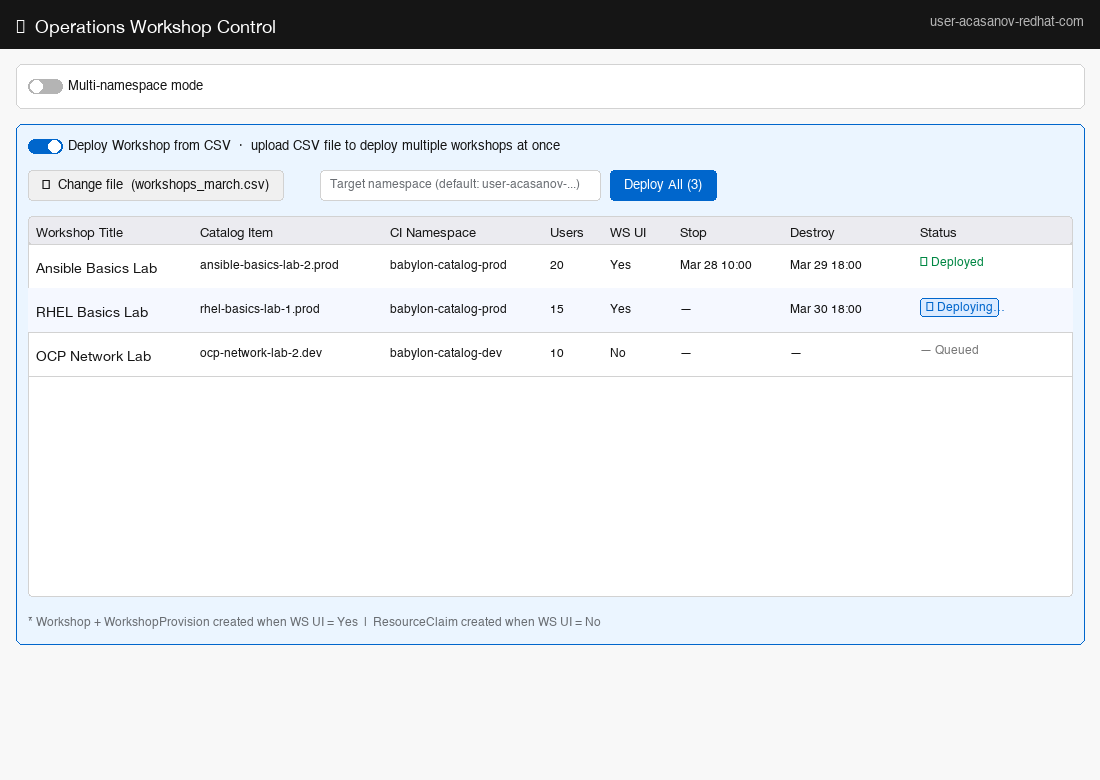
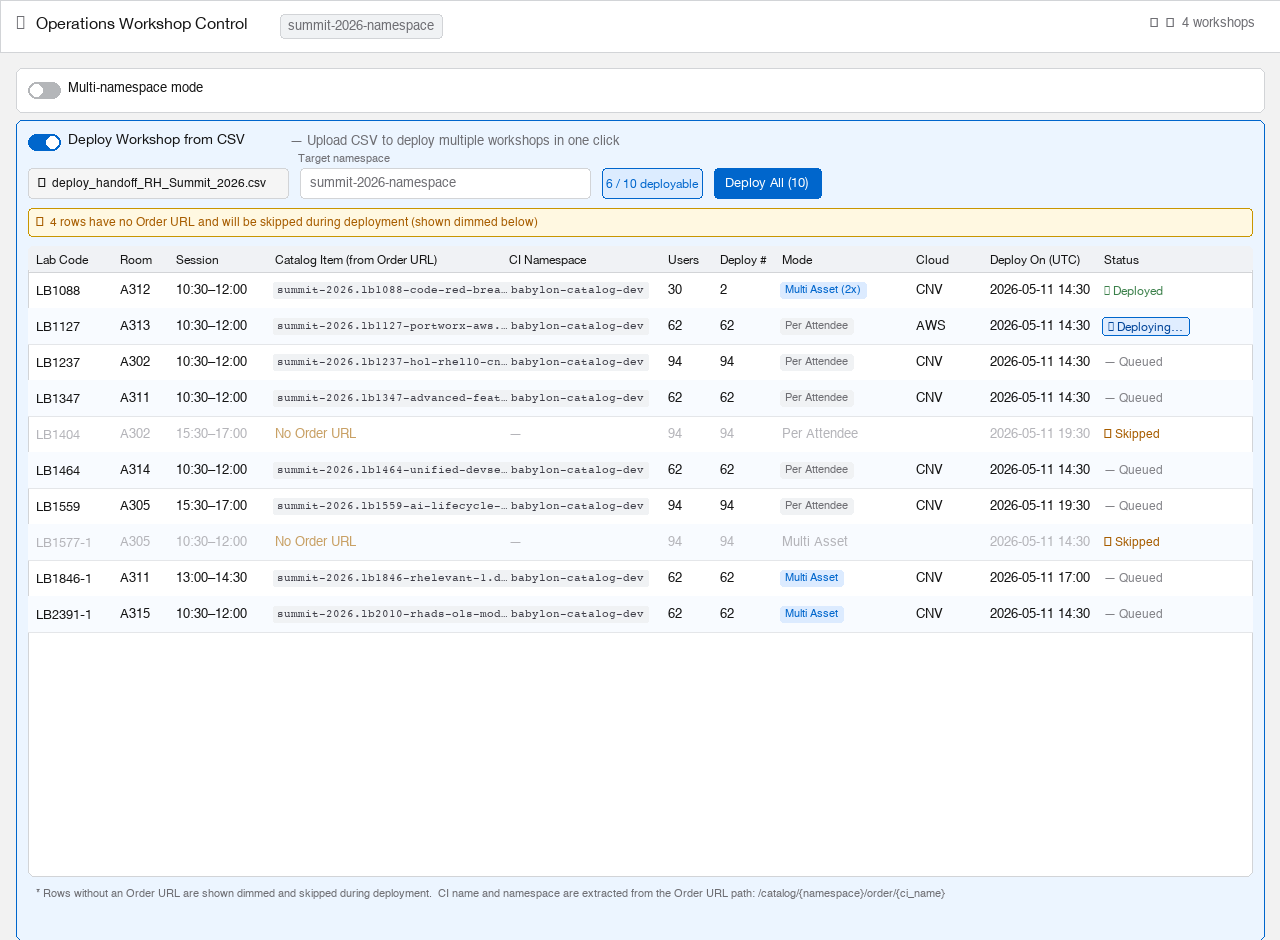
feat(ops): update CSV parser + screenshot to match real Summit CSV format
- Parse Summit-style CSV: Lab Code, Room, Session Time, Deploy On (UTC),
  Order URL, Users, Deploy Count, Mode, Cloud, Region, Instances
- Extract CI name and namespace automatically from Order URL path
  (/catalog/{namespace}/order/{ci_name})
- Preview table now shows: Lab Code, Room, Session, Catalog Item,
  CI Namespace, Users, Deploy #, Mode, Cloud, Deploy On (UTC), Status
- Rows without an Order URL are shown dimmed with a warning tooltip
  and skipped during deploy
- Updated design screenshot uses real Red Hat Summit 2026 data

Made-with: Cursor

diff --git a/catalog/ui/src/app/Admin/Ops.tsx b/catalog/ui/src/app/Admin/Ops.tsx
@@ -211,19 +211,20 @@ function wsDetailPath(ws: Workshop): string {
 // ---------- Deploy Workshop from CSV – types & helpers ----------
 
 interface CsvScheduleRow {
+  labCode: string;
+  room: string;
+  sessionTime: string;
   ciName: string;
   ciNamespace: string;
-  workshopTitle: string;
-  targetNamespace: string;
+  orderUrl: string;
   userCount: number;
-  enableWorkshopInterface: boolean;
-  startTime?: string;
-  stopTime?: string;
-  destroyTime?: string;
-  description?: string;
-  salesforceId?: string;
-  stage?: string;
-  multiuser?: boolean;
+  deployCount: number;
+  mode: string;
+  cloud: string;
+  region: string;
+  instances: string;
+  deployOn?: string;
+  hasOrderUrl: boolean;
   raw: Record<string, string>;
 }
 
@@ -252,58 +253,74 @@ function parseCsvLine(line: string): string[] {
   return result;
 }
 
-function parseCsvBool(v: string): boolean {
-  return /^(true|yes|1)$/i.test(v.trim());
-}
-
 function parseCsvDate(v: string): string | undefined {
   if (!v || v.trim() === '') return undefined;
   const cleaned = v.trim();
-  // Already ISO
   if (/^\d{4}-\d{2}-\d{2}T/.test(cleaned)) return cleaned;
-  // YYYY-MM-DD HH:MM -> ISO
   const match = cleaned.match(/^(\d{4}-\d{2}-\d{2})[T ](\d{2}:\d{2})/);
   if (match) return `${match[1]}T${match[2]}:00Z`;
   return undefined;
 }
 
+// Extract CI name and namespace from Order URL.
+// URL pattern: /catalog/{namespace}/order/{ci_name}
+function extractCiFromUrl(url: string): { ciName: string; ciNamespace: string } | null {
+  const m = url.match(/\/catalog\/([^/]+)\/order\/([^/?#]+)/);
+  if (!m) return null;
+  return { ciNamespace: m[1], ciName: m[2] };
+}
+
 function parseCsvRows(text: string): { rows: CsvScheduleRow[]; errors: string[] } {
   const lines = text.split(/\r?\n/).filter(l => l.trim() !== '' && !l.trim().startsWith('#'));
   if (lines.length < 2) return { rows: [], errors: ['CSV must have a header row and at least one data row'] };
-  const headers = parseCsvLine(lines[0]).map(h => h.toLowerCase().replace(/[\s-]/g, '_'));
+  // Normalise header names: lowercase, spaces/parens/slashes → _
+  const headers = parseCsvLine(lines[0]).map(h =>
+    h.toLowerCase().replace(/\s+/g, '_').replace(/[^a-z0-9_]/g, '_').replace(/_+/g, '_').replace(/^_|_$/g, '')
+  );
   const rows: CsvScheduleRow[] = [];
   const errors: string[] = [];
+
   for (let i = 1; i < lines.length; i++) {
     const vals = parseCsvLine(lines[i]);
     const raw: Record<string, string> = {};
     headers.forEach((h, idx) => { raw[h] = vals[idx] ?? ''; });
-    const ciName = raw['ci_name'] || raw['catalog_item'] || raw['catalog_item_name'] || '';
-    if (!ciName) { errors.push(`Row ${i}: missing ci_name`); continue; }
-    const userCount = parseInt(raw['user_count'] || raw['users'] || raw['seat_count'] || '1', 10);
-    const ciNamespace = raw['ci_namespace'] || raw['catalog_namespace'] || inferCatalogNamespace(ciName, raw['stage'] || raw['env'] || '');
+
+    const labCode = raw['lab_code'] || raw['lab'] || raw['code'] || '';
+    const orderUrl = raw['order_url'] || raw['url'] || raw['order'] || '';
+    const hasOrderUrl = orderUrl.trim() !== '';
+
+    let ciName = raw['ci_name'] || raw['catalog_item'] || '';
+    let ciNamespace = raw['ci_namespace'] || raw['catalog_namespace'] || '';
+
+    if (!ciName && hasOrderUrl) {
+      const extracted = extractCiFromUrl(orderUrl);
+      if (extracted) { ciName = extracted.ciName; ciNamespace = extracted.ciNamespace; }
+    }
+
+    if (!labCode && !ciName) { errors.push(`Row ${i}: missing Lab Code and no Order URL — skipping`); continue; }
+
+    const userCount = parseInt(raw['users'] || raw['user_count'] || raw['attendees'] || '1', 10);
+    const deployCount = parseInt(raw['deploy_count'] || raw['deploycount'] || String(userCount), 10);
+
     rows.push({
+      labCode,
+      room: raw['room'] || '',
+      sessionTime: raw['session_time'] || raw['session'] || '',
       ciName,
       ciNamespace,
-      workshopTitle: raw['workshop_title'] || raw['title'] || ciName,
-      targetNamespace: raw['target_namespace'] || raw['namespace'] || '',
+      orderUrl,
       userCount: isNaN(userCount) ? 1 : userCount,
-      enableWorkshopInterface: parseCsvBool(raw['enable_workshop_interface'] || raw['workshop_interface'] || 'true'),
-      startTime: parseCsvDate(raw['start_time'] || raw['start']),
-      stopTime: parseCsvDate(raw['stop_time'] || raw['stop']),
-      destroyTime: parseCsvDate(raw['destroy_time'] || raw['destroy'] || raw['end_time']),
-      description: raw['description'] || raw['notes'] || '',
-      salesforceId: raw['salesforce_id'] || raw['sf_id'] || '',
-      stage: raw['stage'] || raw['env'] || '',
-      multiuser: parseCsvBool(raw['multi_user'] || raw['multiuser'] || 'false'),
+      deployCount: isNaN(deployCount) ? userCount : deployCount,
+      mode: raw['mode'] || '',
+      cloud: raw['cloud'] || '',
+      region: raw['region'] || '',
+      instances: raw['instances'] || '',
+      deployOn: parseCsvDate(raw['deploy_on_utc_'] || raw['deploy_on_utc'] || raw['deploy_on'] || raw['start_time'] || ''),
+      hasOrderUrl,
       raw,
     });
   }
   return { rows, errors };
-}
-
-function inferCatalogNamespace(ciName: string, stage: string): string {
-  const env = stage || (ciName.endsWith('.prod') ? 'prod' : ciName.endsWith('.dev') ? 'dev' : ciName.endsWith('.test') ? 'test' : 'prod');
-  return `babylon-catalog-${env}`;
 }
 
 function generateK8sName(prefix: string): string {
@@ -313,117 +330,69 @@ function generateK8sName(prefix: string): string {
 }
 
 async function deployWorkshopRow(row: CsvScheduleRow, targetNs: string): Promise<void> {
-  const wsName = generateK8sName(row.workshopTitle || row.ciName);
-  const ns = targetNs || row.targetNamespace;
+  if (!row.hasOrderUrl || !row.ciName) throw new Error('No Order URL / catalog item — cannot deploy this row');
+  const wsName = generateK8sName(row.labCode || row.ciName);
+  const ns = targetNs;
   if (!ns) throw new Error('No target namespace specified for deployment');
 
-  if (row.enableWorkshopInterface) {
-    // Create Workshop object
-    const workshop = {
-      apiVersion: 'babylon.gpte.redhat.com/v1',
-      kind: 'Workshop',
-      metadata: {
-        name: wsName,
-        namespace: ns,
-        annotations: {
-          [`${BABYLON_DOMAIN}/workshopUserRegistration`]: 'open',
-          ...(row.description ? { [`${BABYLON_DOMAIN}/description`]: row.description } : {}),
-        },
-        labels: {
-          ...(row.stage ? { [`${BABYLON_DOMAIN}/stage`]: row.stage } : {}),
-        },
-      },
-      spec: {
-        multiuser: row.multiuser ?? false,
-        openRegistration: true,
-        accessPassword: '',
-        description: row.description || '',
-        displayName: row.workshopTitle || row.ciName,
-        ...(row.stopTime ? { lifespan: { end: row.stopTime } } : {}),
-      },
-    };
-    const wsResp = await apiFetch(`/apis/babylon.gpte.redhat.com/v1/namespaces/${ns}/workshops`, {
-      method: 'POST',
-      headers: { 'Content-Type': 'application/json' },
-      body: JSON.stringify(workshop),
-    });
-    if (!wsResp.ok) {
-      const err = await wsResp.json().catch(() => ({}));
-      throw new Error(`Workshop creation failed: ${err.message || wsResp.statusText}`);
-    }
+  const isMultiAsset = /multi.asset/i.test(row.mode);
 
-    // Create WorkshopProvision
-    const provision = {
-      apiVersion: 'babylon.gpte.redhat.com/v1',
-      kind: 'WorkshopProvision',
-      metadata: {
-        name: wsName,
-        namespace: ns,
-        labels: { [`${BABYLON_DOMAIN}/workshop`]: wsName },
+  // Always create Workshop + WorkshopProvision
+  const workshop = {
+    apiVersion: 'babylon.gpte.redhat.com/v1',
+    kind: 'Workshop',
+    metadata: {
+      name: wsName,
+      namespace: ns,
+      annotations: {
+        [`${BABYLON_DOMAIN}/workshopUserRegistration`]: 'open',
       },
-      spec: {
-        catalogItem: { name: row.ciName, namespace: row.ciNamespace },
-        count: row.userCount,
-        workshopName: wsName,
-        parameters: [],
+      labels: {
+        [`${BABYLON_DOMAIN}/stage`]: row.ciNamespace?.replace('babylon-catalog-', '') || 'dev',
       },
-    };
-    const wpResp = await apiFetch(`/apis/babylon.gpte.redhat.com/v1/namespaces/${ns}/workshopprovisions`, {
-      method: 'POST',
-      headers: { 'Content-Type': 'application/json' },
-      body: JSON.stringify(provision),
-    });
-    if (!wpResp.ok) {
-      const err = await wpResp.json().catch(() => ({}));
-      throw new Error(`WorkshopProvision creation failed: ${err.message || wpResp.statusText}`);
-    }
-  } else {
-    // Create ResourceClaim
-    const rc = {
-      apiVersion: 'poolboy.gpte.redhat.com/v1',
-      kind: 'ResourceClaim',
-      metadata: {
-        name: wsName,
-        namespace: ns,
-        annotations: {
-          ...(row.description ? { [`${DEMO_DOMAIN}/description`]: row.description } : {}),
-          ...(row.salesforceId ? { [`${BABYLON_DOMAIN}/salesforce-id`]: row.salesforceId } : {}),
-        },
-        labels: {
-          ...(row.stage ? { [`${BABYLON_DOMAIN}/stage`]: row.stage } : {}),
-        },
-      },
-      spec: {
-        resources: [{
-          provider: {
-            apiVersion: 'poolboy.gpte.redhat.com/v1',
-            kind: 'ResourceProvider',
-            name: 'babylon',
-            namespace: 'poolboy',
-          },
-          template: {
-            apiVersion: 'babylon.gpte.redhat.com/v1',
-            kind: 'AnarchySubject',
-            metadata: { annotations: { [`${BABYLON_DOMAIN}/catalogItemName`]: row.ciName, [`${BABYLON_DOMAIN}/catalogItemNamespace`]: row.ciNamespace } },
-            spec: {
-              vars: {
-                desired_state: 'started',
-                job_vars: { user_count: row.userCount },
-              },
-            },
-          },
-        }],
-      },
-    };
-    const rcResp = await apiFetch(`/apis/poolboy.gpte.redhat.com/v1/namespaces/${ns}/resourceclaims`, {
-      method: 'POST',
-      headers: { 'Content-Type': 'application/json' },
-      body: JSON.stringify(rc),
-    });
-    if (!rcResp.ok) {
-      const err = await rcResp.json().catch(() => ({}));
-      throw new Error(`ResourceClaim creation failed: ${err.message || rcResp.statusText}`);
-    }
+    },
+    spec: {
+      multiuser: isMultiAsset,
+      openRegistration: true,
+      accessPassword: '',
+      displayName: row.labCode || row.ciName,
+      ...(row.deployOn ? { lifespan: { start: row.deployOn } } : {}),
+    },
+  };
+  const wsResp = await apiFetch(`/apis/babylon.gpte.redhat.com/v1/namespaces/${ns}/workshops`, {
+    method: 'POST',
+    headers: { 'Content-Type': 'application/json' },
+    body: JSON.stringify(workshop),
+  });
+  if (!wsResp.ok) {
+    const err = await wsResp.json().catch(() => ({}));
+    throw new Error(`Workshop creation failed: ${(err as any).message || wsResp.statusText}`);
+  }
+
+  // WorkshopProvision
+  const provision = {
+    apiVersion: 'babylon.gpte.redhat.com/v1',
+    kind: 'WorkshopProvision',
+    metadata: {
+      name: wsName,
+      namespace: ns,
+      labels: { [`${BABYLON_DOMAIN}/workshop`]: wsName },
+    },
+    spec: {
+      catalogItem: { name: row.ciName, namespace: row.ciNamespace },
+      count: row.deployCount,
+      workshopName: wsName,
+      parameters: [],
+    },
+  };
+  const wpResp = await apiFetch(`/apis/babylon.gpte.redhat.com/v1/namespaces/${ns}/workshopprovisions`, {
+    method: 'POST',
+    headers: { 'Content-Type': 'application/json' },
+    body: JSON.stringify(provision),
+  });
+  if (!wpResp.ok) {
+    const err = await wpResp.json().catch(() => ({}));
+    throw new Error(`WorkshopProvision creation failed: ${(err as any).message || wpResp.statusText}`);
   }
 }
 
@@ -1534,13 +1503,16 @@ const Ops: React.FC = () => {
                     <table className="pf-v6-c-table pf-m-compact pf-m-grid-md ops-deploy-csv-table">
                       <thead>
                         <tr>
-                          <th>Workshop Title</th>
+                          <th>Lab Code</th>
+                          <th>Room</th>
+                          <th>Session</th>
                           <th>Catalog Item</th>
                           <th>CI Namespace</th>
                           <th>Users</th>
-                          <th>Workshop UI</th>
-                          <th>Stop</th>
-                          <th>Destroy</th>
+                          <th>Deploy&nbsp;#</th>
+                          <th>Mode</th>
+                          <th>Cloud</th>
+                          <th>Deploy On (UTC)</th>
                           <th>Status</th>
                         </tr>
                       </thead>
@@ -1548,14 +1520,21 @@ const Ops: React.FC = () => {
                         {csvRows.map((row, idx) => {
                           const st = csvDeployStatus[idx];
                           return (
-                            <tr key={idx}>
-                              <td>{row.workshopTitle}</td>
-                              <td><code>{row.ciName}</code></td>
-                              <td><code>{row.ciNamespace}</code></td>
+                            <tr key={idx} className={!row.hasOrderUrl ? 'ops-deploy-csv-row--no-url' : ''}>
+                              <td><strong>{row.labCode || '—'}</strong></td>
+                              <td>{row.room || '—'}</td>
+                              <td style={{ whiteSpace: 'nowrap' }}>{row.sessionTime || '—'}</td>
+                              <td>
+                                {row.hasOrderUrl
+                                  ? <code>{row.ciName}</code>
+                                  : <Tooltip content="No Order URL — row will be skipped during deploy"><span style={{ color: 'var(--pf-t--global--color--status--warning--default)' }}>No Order URL</span></Tooltip>}
+                              </td>
+                              <td><code>{row.ciNamespace || '—'}</code></td>
                               <td>{row.userCount}</td>
-                              <td>{row.enableWorkshopInterface ? 'Yes' : 'No'}</td>
-                              <td>{row.stopTime ? new Date(row.stopTime).toLocaleString() : '—'}</td>
-                              <td>{row.destroyTime ? new Date(row.destroyTime).toLocaleString() : '—'}</td>
+                              <td>{row.deployCount}</td>
+                              <td>{row.mode || '—'}</td>
+                              <td>{row.cloud || '—'}</td>
+                              <td style={{ whiteSpace: 'nowrap' }}>{row.deployOn ? new Date(row.deployOn).toLocaleString() : '—'}</td>
                               <td>
                                 {!st && <span style={{ color: 'var(--pf-t--global--color--nonstatus--gray--default)' }}>—</span>}
                                 {st?.state === 'pending' && <span style={{ color: 'var(--pf-t--global--color--nonstatus--gray--default)' }}>Queued</span>}

diff --git a/catalog/ui/src/app/Admin/ops.css b/catalog/ui/src/app/Admin/ops.css
@@ -85,6 +85,10 @@
   padding: 6px 10px;
 }
 
+.ops-deploy-csv-row--no-url {
+  opacity: 0.55;
+}
+
 .ops-ns-breakdown {
   margin: 8px 0 0 20px;
   padding: 0;
